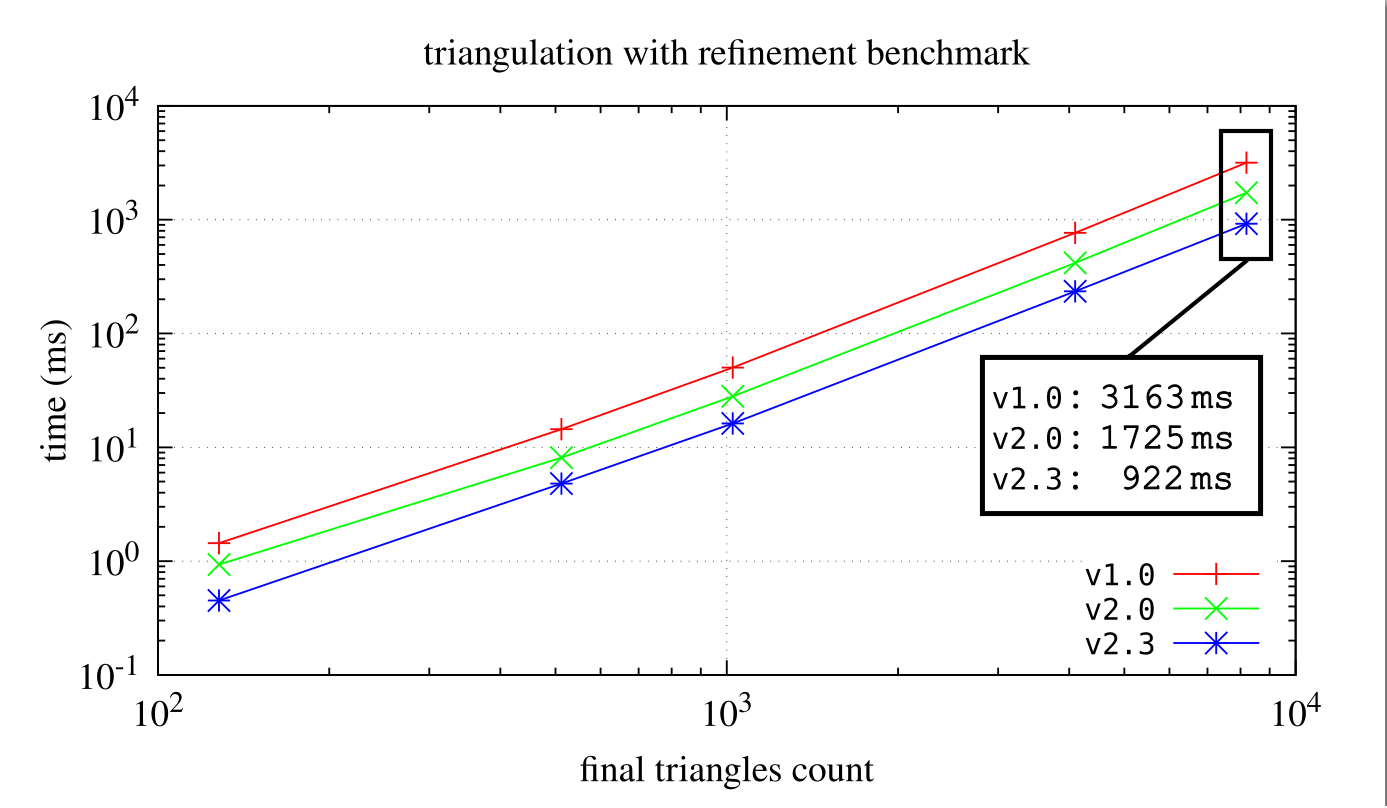
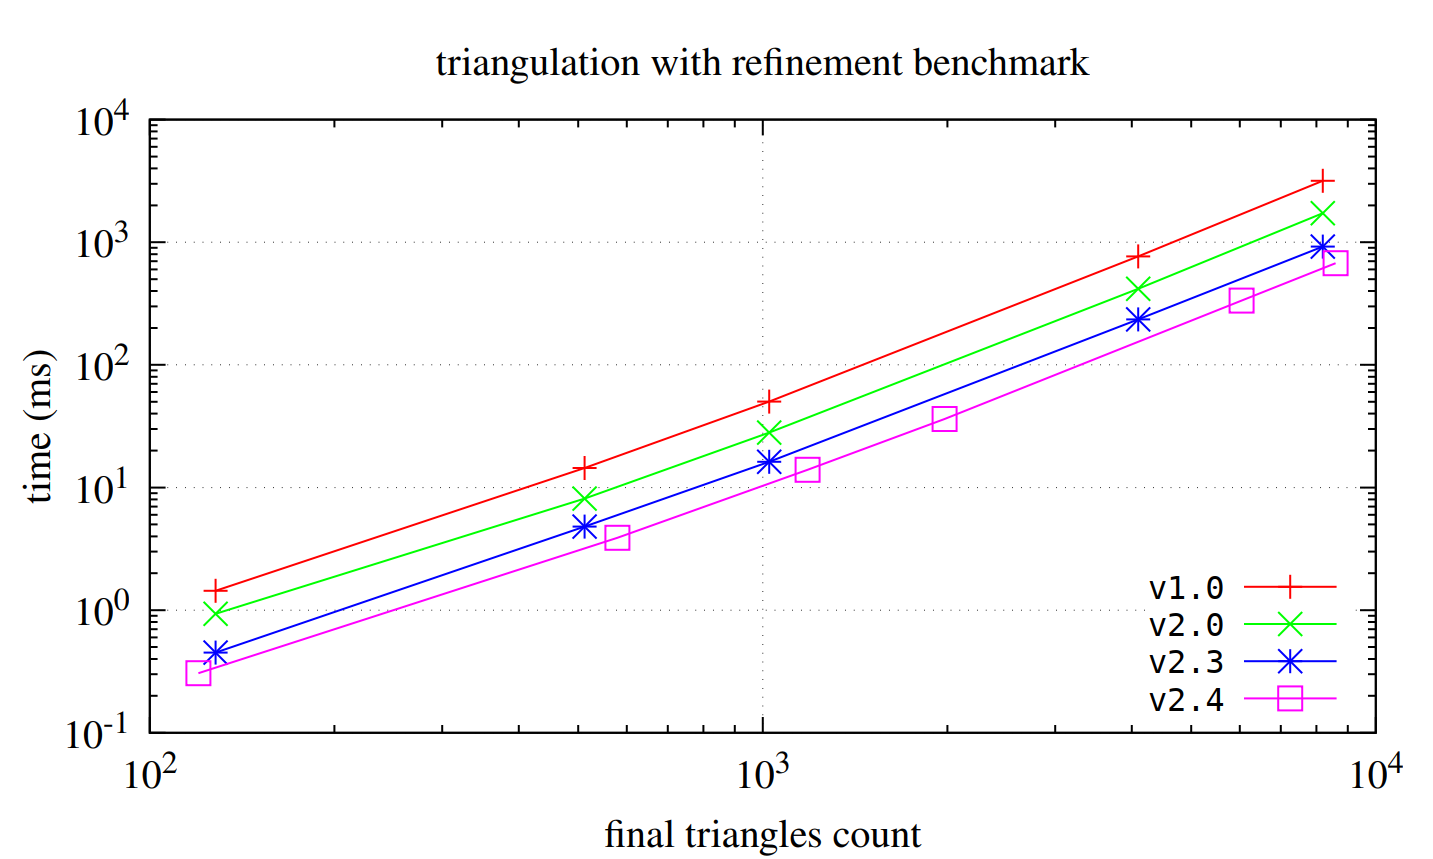
chore(release): version 2.4.0

Changed region(s): [[0.0, 0.0, 1.0, 1.0], [0.279, 0.0309, 0.7751, 0.0928]]

diff --git a/Tests/TriangulatorBenchmarkTests.cs b/Tests/TriangulatorBenchmarkTests.cs
@@ -146,8 +146,11 @@ namespace andywiecko.BurstTriangulator.Editor.Tests
             new((area: 0.0500f, N: 100)),
             new((area: 0.0100f, N: 100)),
             new((area: 0.0050f, N: 100)),
+            new((area: 0.0030f, N: 100)),
             new((area: 0.0010f, N: 100)),
+            new((area: 0.0007f, N: 010)),
             new((area: 0.0005f, N: 010)),
+            new((area: 0.0004f, N: 010)),
             new((area: 0.0003f, N: 010)),
             new((area: 0.0002f, N: 005)),
         };

diff --git a/CHANGELOG.md b/CHANGELOG.md
@@ -7,7 +7,24 @@ and this project adheres to [Semantic Versioning](https://semver.org/spec/v2.0.0
 
 For online version see [Github Releases].
 
-## [2.3.0] - 2023-10-25
+## [2.4.0] – 2023-12-23
+
+### Added
+
+- Introduce `ConcentricShellParameter` in `TriangulationSettings`, serving as a constant for *concentric shells* segment splitting.
+- Add `RefinementThresholds` in `TriangulationSettings`, including `.Area` and `.Angle`. Previous corresponding parameters are marked with obsolete.
+
+### Changed
+
+- Enhance triangulation refinement for improved quality and performance. Replace the previous algorithm with a new one, similar to Shewchuk's *terminator* algorithm. The refined mesh now exhibits non-uniform triangle density, with increased density near boundaries and decreased density in the mesh bulk.
+- Update `README.md` to include a comparison between different refinement settings.
+- Remove the super-triangle approach (resulting in a slight performance boost). Perform refinement after removing holes and boundaries for better refinement quality.
+
+### Deprecated
+
+- Mark `MinimumArea`, `MaximumArea`, and `MinimumAngle` as obsolete. Replace these parameters with the more versatile `RefinementThresholds`.
+
+## [2.3.0] – 2023-10-25
 
 ### Changed
 
@@ -136,6 +153,7 @@ options in the triangulation settings, aka `RestoreBoundary`.
 - Initial release version
 
 [Github Releases]: https://github.com/andywiecko/BurstTriangulator/releases
+[2.4.0]: https://github.com/andywiecko/BurstTriangulator/releases/tag/v2.4.0
 [2.3.0]: https://github.com/andywiecko/BurstTriangulator/releases/tag/v2.3.0
 [2.2.0]: https://github.com/andywiecko/BurstTriangulator/releases/tag/v2.2.0
 [2.1.0]: https://github.com/andywiecko/BurstTriangulator/releases/tag/v2.1.0

diff --git a/README.md b/README.md
@@ -63,7 +63,7 @@ Add or modify scoped registries in the manifest
 and in the dependencies provide selected version of the package
 <pre>
 "dependencies": {
-    "com.andywiecko.burst.triangulator": "2.3.0",
+    "com.andywiecko.burst.triangulator": "2.4.0",
     ...
 </pre>
 See Unity docs for more details https://docs.unity3d.com/2021.1/Documentation/Manual/upm-scoped.html
@@ -438,9 +438,12 @@ In the figure below, you can also see example test cases: red represents resulti
 
 ![Constraint Benchmark](Documentation~/benchmark-constraint.png)
 
-Furthermore, we present a performance comparison (with Burst enabled) between `v1.0`, `v2.0`, and `v2.3` for the refinement task.
+Furthermore, we present a performance comparison (with Burst enabled) between `v1.0`, `v2.0`, `v2.3`, and `v2.4` for the refinement task.
 
 ![Refinement Benchmark](Documentation~/benchmark-refinement.png)
+
+> **Note**  
+> Since v2.4, the triangulation refinement algorithm has been updated, resulting in improved mesh quality.
 
 ## Dependencies
 
